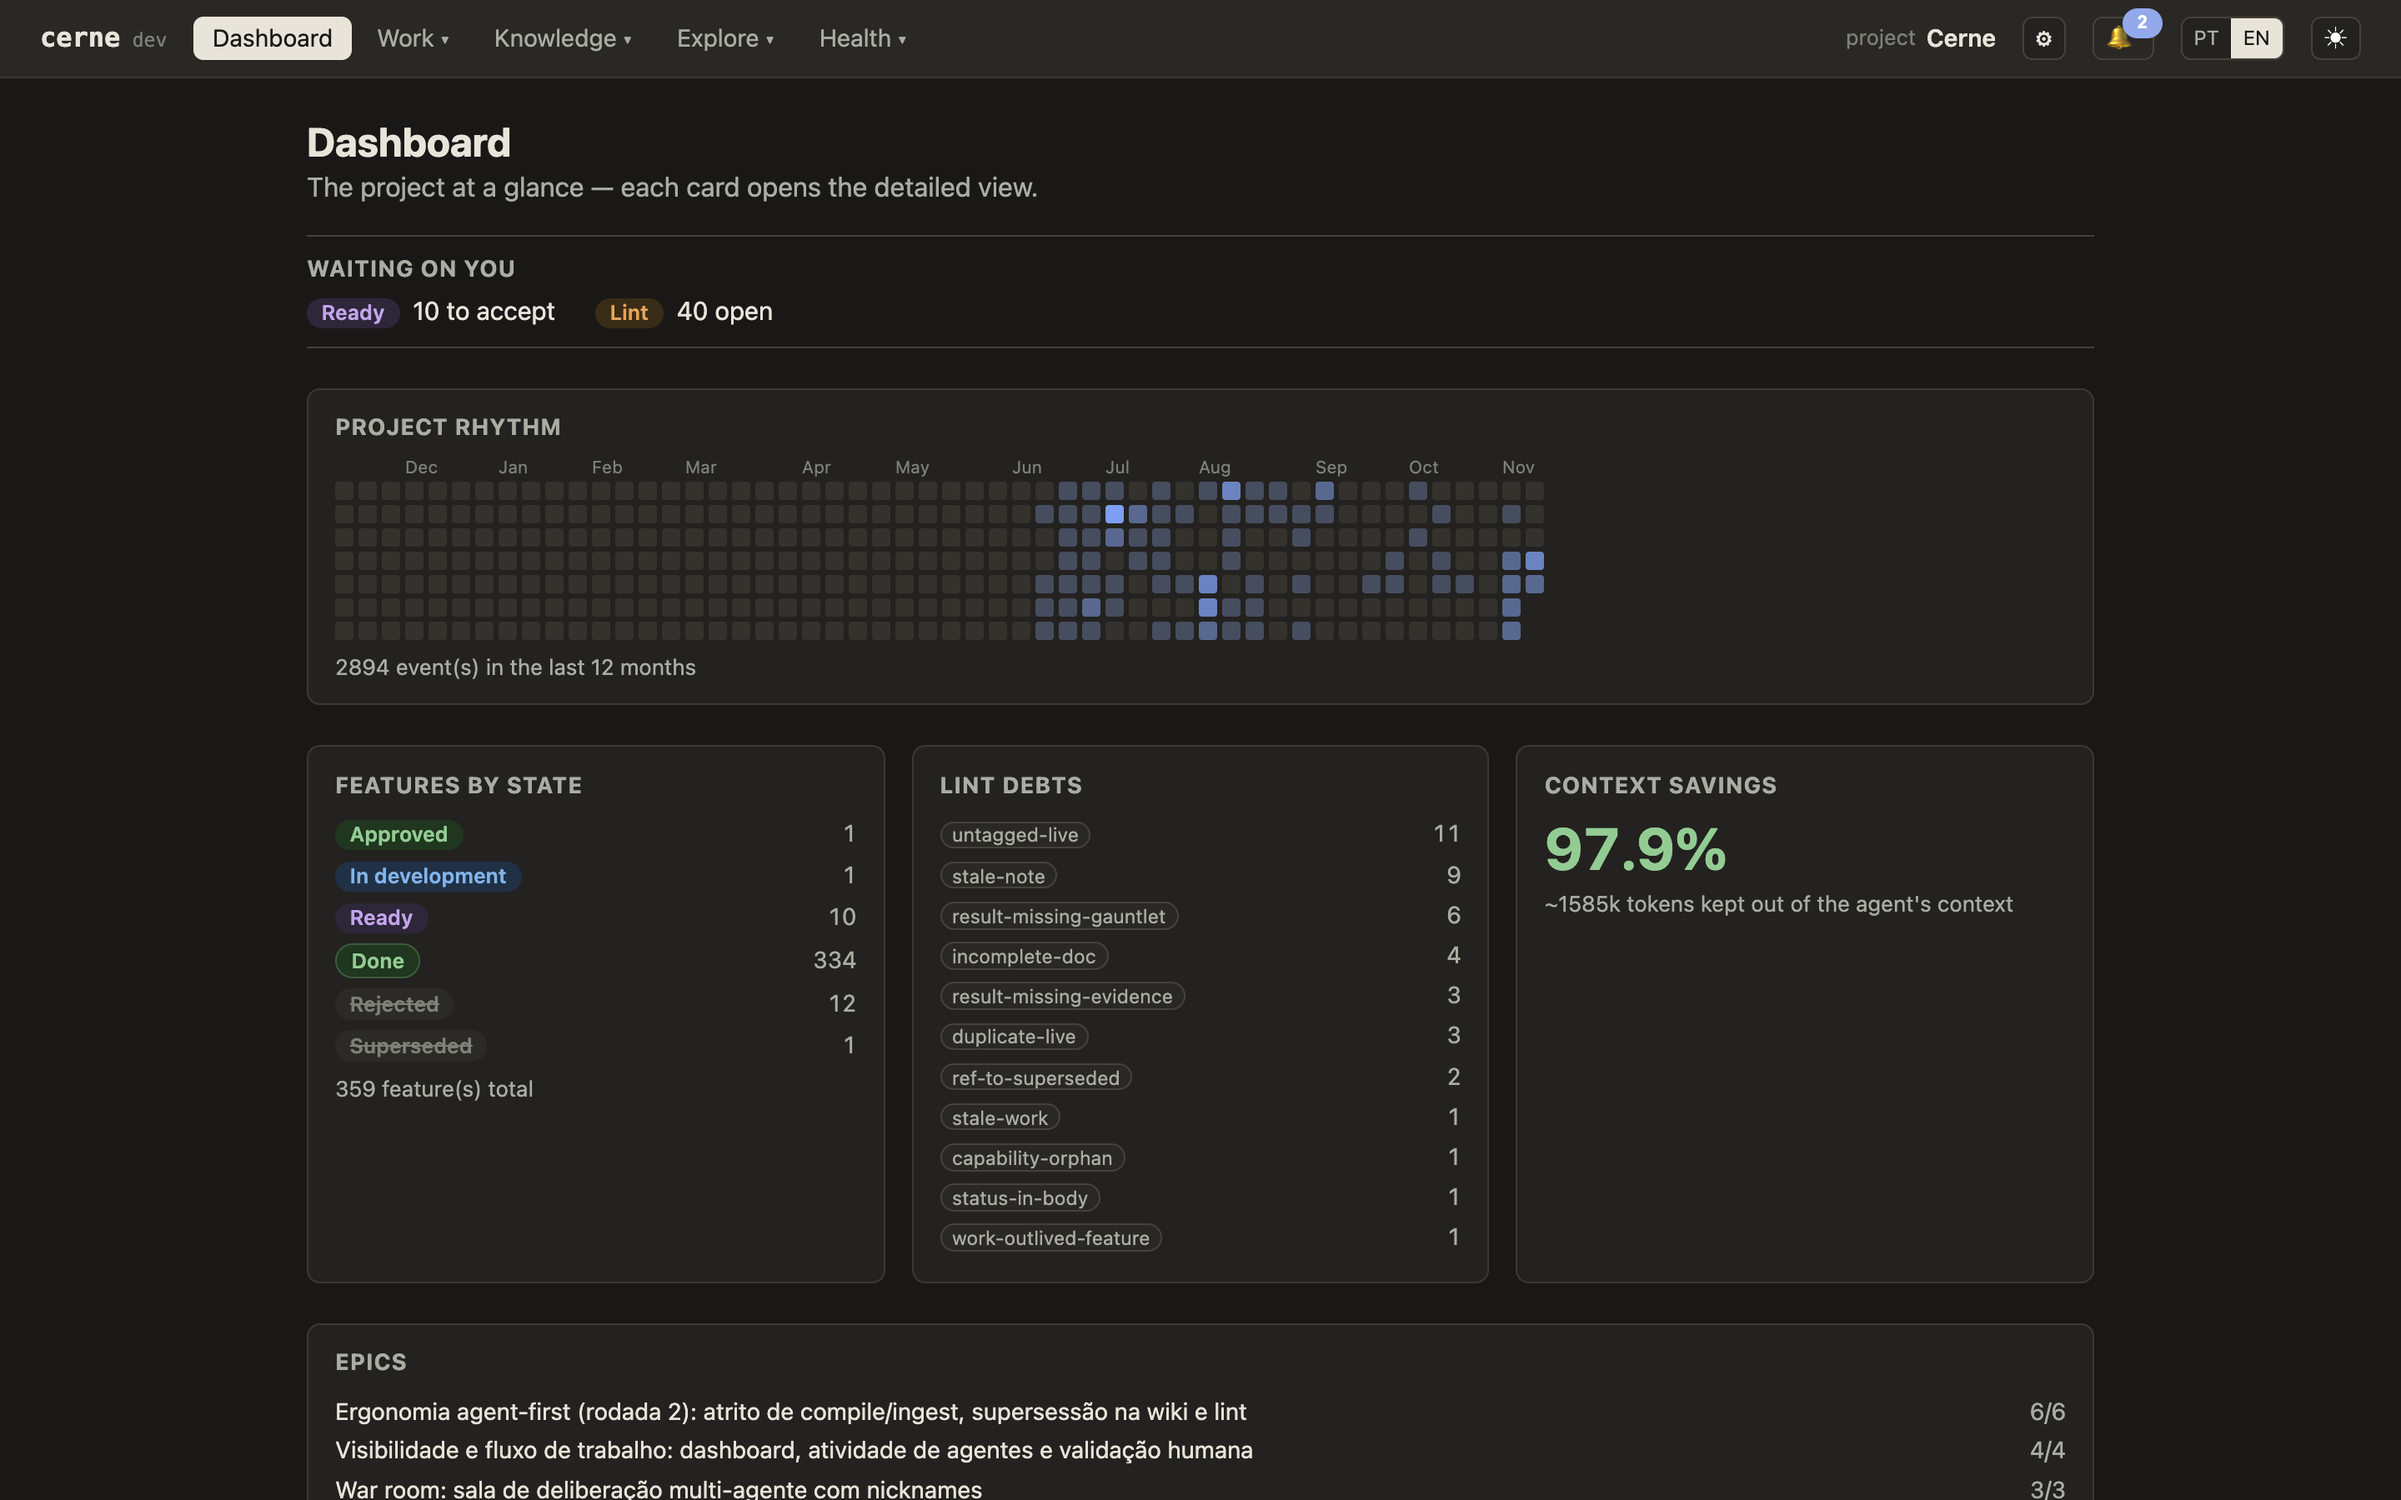
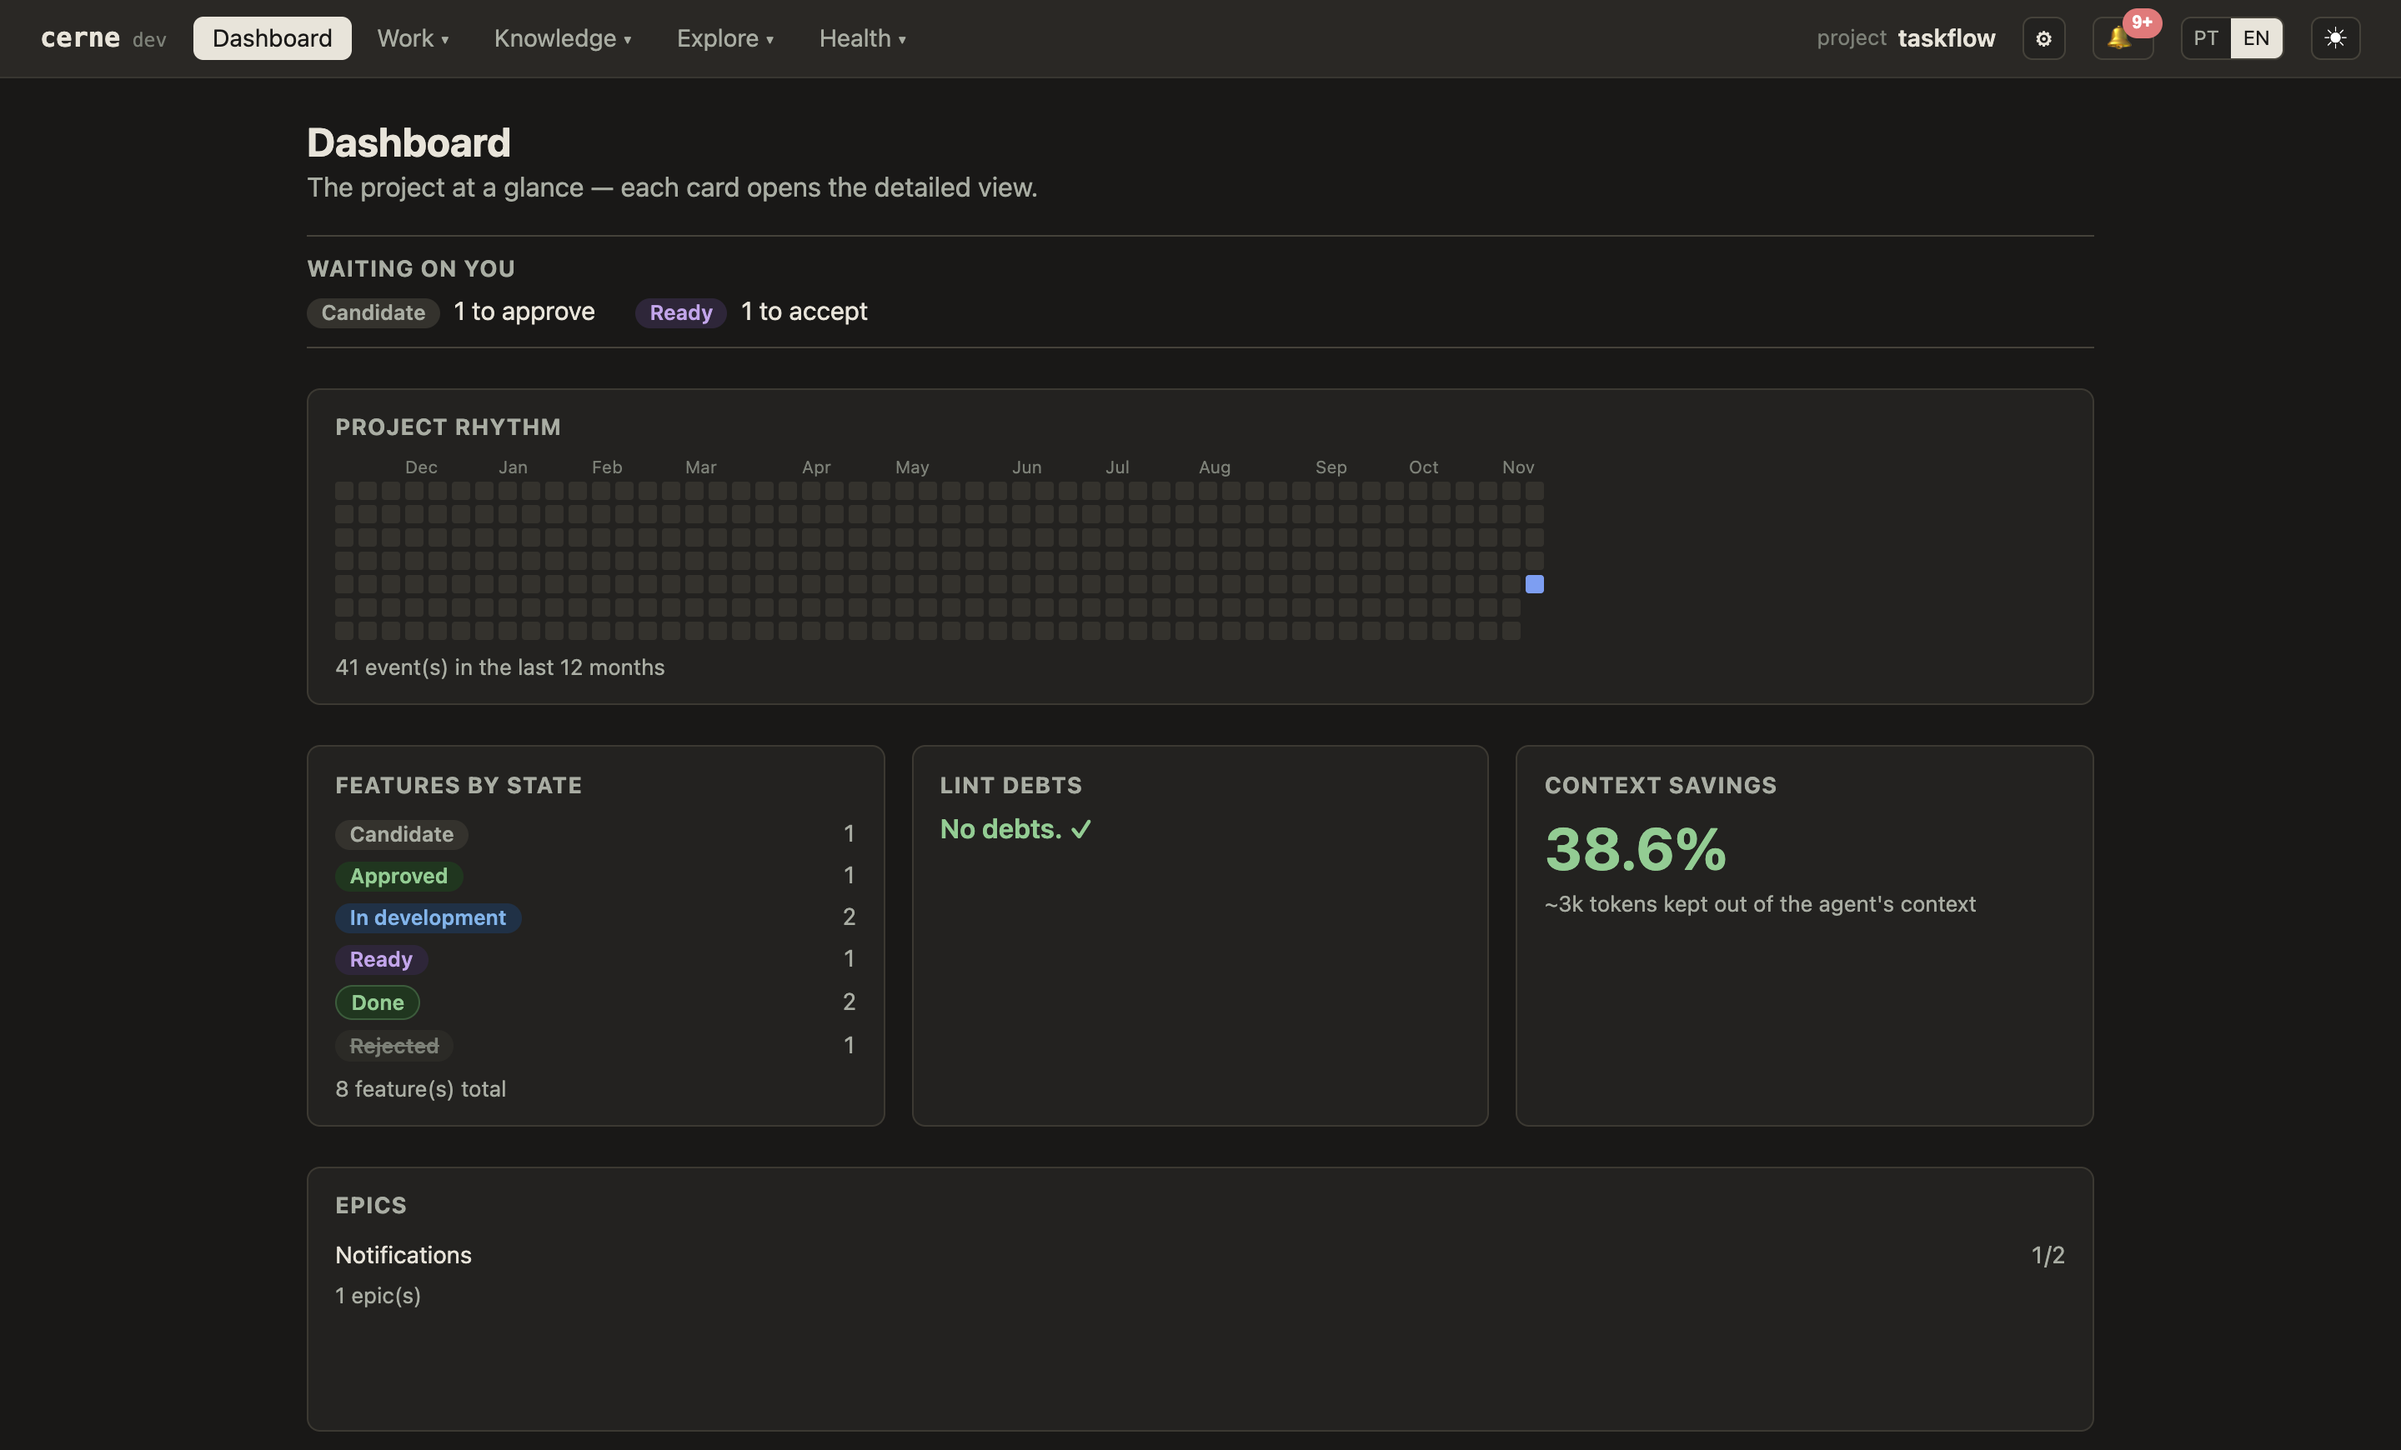
docs(readme): lead with the web UI; the CLI is the agent's surface
The page opened on a terminal GIF and a quickstart of eight commands,
which reads as "this is complex to operate". It is the wrong picture:
the commands are mostly run by the agent, and a person follows and
steers the work in `cerne ui`.

- The hero is now a tour of the UI: the dashboard's "waiting on you",
  the kanban board, and a feature page with its Accept button.
- A new section, "You use the dashboard, your agent uses the CLI",
  says who does what at each step and why the CLI is large.
- The quickstart ends at `cerne ui` and asking the agent for a
  feature. The by-hand commands and the terminal GIF moved into a
  collapsed block for people who prefer the terminal.
- The dashboard screenshot now comes from the demo project, like the
  kanban one, so every image is in English and reproducible.

diff --git a/README.md b/README.md
@@ -2,7 +2,7 @@
 
 <p align="center">
   <strong>Living documentation for projects built with AI agents.</strong><br>
-  Your agent reads what is true today. Everything else stays searchable, out of its context.
+  You steer from a dashboard. Your agent does the paperwork, and reads only what is true today.
 </p>
 
 <p align="center">
@@ -14,12 +14,13 @@
 
 <p align="center">
   <a href="#try-it-in-two-minutes">Quickstart</a> ·
+  <a href="#you-use-the-dashboard-your-agent-uses-the-cli">Who does what</a> ·
   <a href="#how-it-works">How it works</a> ·
   <a href="#what-you-get">Features</a> ·
   <a href="INSTALL.md">Install guide</a>
 </p>
 
-![cerne in the terminal: a rejected feature leaves the current state and stays searchable](docs/assets/demo.gif)
+![The cerne web UI: a dashboard of what is waiting on you, the kanban board, and a feature page with its spec and the Accept button](docs/assets/ui-tour.gif)
 
 ## The problem
 
@@ -29,12 +30,28 @@ A human skims and guesses. An AI agent reads everything with the same weight, th
 
 ## What cerne does
 
-cerne is a single binary (CLI + local web UI) that keeps the lifecycle of your features and decisions as **structured data** and hands the agent **only the current state**.
+cerne is a single binary that keeps the lifecycle of your features and decisions as **structured data** and hands the agent **only the current state**. You follow and steer the work in a local web UI; the agent drives it through a CLI.
 
 - **State is data, never prose.** A feature is `candidate`, `approved`, `in development`, `implemented` or `done` because a gated command moved it there, with an event log behind it. No "Status: WIP" line rotting in a markdown file.
 - **The agent reads a projection, not the archive.** `cerne pull` materializes the current state into a gitignored `.docs/` folder with a generated `CONTEXT.md`. Finished, rejected and superseded work stays out.
 - **History is kept, and searchable.** Nothing is deleted. `cerne search` and `cerne ask` reach the whole history when you need the why behind a decision.
 - **Staleness is linted deterministically.** Because state is data, `cerne lint` can flag a doc that links to a superseded decision, a broken reference, or a feature closed without evidence. No LLM guessing.
+
+## You use the dashboard, your agent uses the CLI
+
+cerne has two faces, and you only need to learn one of them.
+
+| | You, in the browser (`cerne ui`) | Your agent, in the terminal |
+|---|---|---|
+| **Starting work** | Describe a feature, or read the spec the agent drafted | Registers the feature and writes its spec |
+| **The gate in** | **Approve** the spec. The agent cannot | Waits for your approval, then plans and builds |
+| **While it runs** | Watch the board move; see what each agent is on | Moves the feature through the lifecycle as it works |
+| **The gate out** | Read the result and its evidence, then **Accept** | Writes the result, with evidence for each acceptance criterion |
+| **Later** | Search why something was decided or rejected | Reads only what is current, so it does not cite the past |
+
+The CLI has many commands because the agent needs them. `cerne init` installs the skills and hooks that teach it the whole workflow, so in practice you ask for a feature in plain words and review it in the UI. Every command is still there for you: nothing the agent does is hidden or out of reach.
+
+![A feature page: the spec the agent wrote, its state, and the Accept button reserved for a human](docs/assets/ui-feature.png)
 
 ### The number
 
@@ -57,20 +74,32 @@ curl -fsSL https://raw.githubusercontent.com/henriquesakata/cerne/main/install.s
 
 The script downloads the latest release for your machine, verifies its SHA-256 and installs it without `sudo`. On Windows, or to install by hand or with Go, see [INSTALL.md](INSTALL.md).
 
-Then, inside any git repository. A local bare repo is enough to try it out:
+Then, inside your project's git repository. A local bare repo is enough to try it out:
 
 ```bash
 git init --bare ~/my-project-docs.git
 cerne init --backend ~/my-project-docs.git --name my-project
 echo ".docs/" >> .gitignore
+cerne ui        # your dashboard, at http://localhost:7717
+```
 
+That is all you need to type. Now open your agent in the project (Claude Code picks up what `init` installed) and ask for something: *"add sign in with Google"*. It registers the feature and drafts the spec; the card shows up on your board, waiting for you to approve it.
+
+For a team, point `--backend` at an empty private repository on GitHub or GitLab instead.
+
+<details>
+<summary>Prefer the terminal, or working without an agent? The same flow by hand.</summary>
+
+```bash
 cerne feature new "Sign in with Google" --context "Users asked for social login."
 cerne pull      # materializes the current state into .docs/
 cerne status    # features grouped by state
-cerne ui        # dashboard and kanban at http://localhost:7717
+cerne search facebook   # history stays searchable
 ```
 
-For a team, point `--backend` at an empty private repository on GitHub or GitLab instead.
+![cerne in the terminal: a rejected feature leaves the current state and stays searchable](docs/assets/demo.gif)
+
+</details>
 
 ### See it with data
 
@@ -80,7 +109,7 @@ An empty project does not show what cerne is for. This builds a fictional one wi
 git clone https://github.com/henriquesakata/cerne && sh cerne/examples/demo/seed.sh
 ```
 
-Then `cd cerne-demo/taskflow && cerne ui`. What is in it and what to try: [examples/demo](examples/demo/README.md).
+Then `cd cerne-demo/taskflow && cerne ui` and click around. What is in it and what to try: [examples/demo](examples/demo/README.md).
 
 ## How it works
 
@@ -107,18 +136,20 @@ flowchart LR
 
 | | |
 |---|---|
-| **Gated lifecycle** | `approve` needs a real spec with an acceptance bar, `start` needs a plan, `complete` needs a result. `approve` and `accept` are human acts by default: the agent cannot sign off its own work. |
-| **Kanban and dashboard** | `cerne ui` serves a local web UI: board, epics, activity, flow metrics, lint debts. English and Portuguese. |
+| **A dashboard for humans** | `cerne ui` serves a local web UI: what is waiting on you, the kanban board, epics, agent activity, flow metrics, lint debts. English and Portuguese. |
+| **Gated lifecycle** | A spec needs an acceptance bar before it is approved, a plan before work starts, a result with evidence before it is done. Approving and accepting are human acts by default, one click in the UI: the agent cannot sign off its own work. |
 | **Decisions, runbooks, notes, references** | ADRs with supersession, operational procedures, durable team knowledge, and external sources registered as provenance instead of loose links. |
 | **Search and Q&A over history** | Full-text search (SQLite FTS5) over everything, including what was rejected. `cerne ask` answers with citations. |
 | **Deterministic lint** | Stale references, broken links, orphans, missing gate documents, unregistered sources. |
 | **Built for parallel agents** | Per-document merge on `pull`, auto-rebase on `push`, a conflict-free `docs.lock` across branches and worktrees. |
-| **Claude Code integration** | `cerne init` installs skills and hooks that teach the agent the workflow, so you just ask for the feature. |
+| **Your agent already knows how** | `cerne init` installs the skills and hooks that teach Claude Code the workflow, so you just ask for the feature. |
 | **Single binary** | macOS, Linux and Windows. The UI is embedded. No runtime dependencies. |
 
-![The cerne dashboard: features by state, lint debts and context savings](docs/assets/ui-dashboard.png)
+![The dashboard: what is waiting on you, features by state, lint debts and context savings](docs/assets/ui-dashboard.png)
 
-![The cerne kanban board](docs/assets/ui-kanban.png)
+![The kanban board: every feature in its state, epics and tags](docs/assets/ui-kanban.png)
+
+The screenshots are from the [demo project](examples/demo/README.md), which you can build on your machine in a few seconds.
 
 ## Why not just…
 
